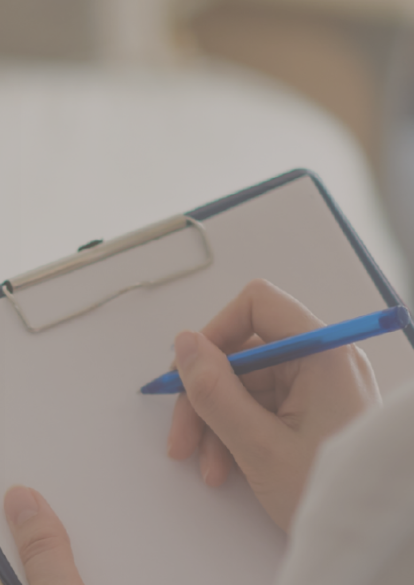
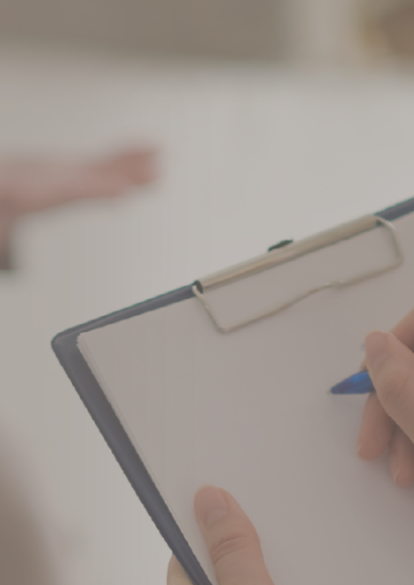
upd: site pronto

diff --git a/src/pages/index.tsx b/src/pages/index.tsx
@@ -1,9 +1,12 @@
 import Image from "next/image";
 import React from "react";
-import TerapiaIMG from '../assets/image/Psicologa.webp';
-import TerapiaMobileIMG from '../assets/image/PsicologaMobile.png'
+import HomeIMG from '../assets/image/Home.png';
+import HomeMobileIMG from '../assets/image/HomeMobile.png'
 import ProblemasCognitivos from '../assets/image/ProblemasCognitivos.png';
 import Consultorio from '../assets/image/Consultório.png';
+import CriancasTerapia from '../assets/image/CriancasTerapia.png';
+import { IoIosArrowForward } from 'react-icons/io';
+import Link from "next/link";
 
 export default function Home() {
   return (
@@ -11,7 +14,7 @@ export default function Home() {
       <section className="relative w-full lg:h-auto">
         <div className="md:block hidden">
           <Image
-            src={TerapiaIMG}
+            src={HomeIMG}
             alt="Imagem Terapia Psicólogo"
             layout="responsive"
             objectFit="cover"
@@ -23,7 +26,7 @@ export default function Home() {
         </div>
         <div className="block md:hidden">
           <Image
-            src={TerapiaMobileIMG}
+            src={HomeMobileIMG}
             alt="Imagem Terapia Psicólogo"
             layout="responsive"
             objectFit="cover"
@@ -31,21 +34,18 @@ export default function Home() {
             className="w-full"
           />
         </div>
-        <div className="absolute top-0 left-0 px-10 md:px-0 w-full h-full flex justify-center items-start mt-14 md:mt-3 md:items-center">
+        <div className="absolute top-0 left-0 px-10 md:px-0 w-full h-full flex justify-center items-start mt-14 md:mt-0 md:items-center">
           {/* Conteúdo centralizado horizontal e verticalmente */}
-          <div className="flex md:px-10 flex-col gap-4 lg:gap-10 max-w-[1140px] w-full mx-auto space-y-4 text-center items-start"> 
-            <div className="max-w-[540px] text-left flex flex-col gap-2 md:gap-5">
-              <h1 className="text-[28px] lg:text-[46px] md:leading-[50px] text-white font-bold">
-                Terapia Cognitivo Comportamental
-              </h1>
-              <p className="text-[14px] lg:text-[18px] font-light text-white">
-                Descubra o poder da Terapia Cognitiva Comportamental (TCC) com a Psicóloga Hellen Pereira, especialista em desbloquear o potencial de sua mente.
-              </p>
-            </div>
-            <div className="flex md:flex-row  gap-3 md:gap-0 flex-col bg-[#EED6D3]/80 items-center py-8 lg:py-6 px-7 lg:px-10 rounded-xl justify-between w-full">
-              <div className="text-[#67595E] text-center md:text-left flex flex-col gap-3 md:gap-4">
-                <h1 className="font-bold text-[24px] leading-7 md:leading-0 lg:text-[32px]">Agende agora sua consulta !</h1>
-                <p className="text-[14px] lg:text-[15px]">A Psicóloga Hellen atende em consultório ou por telemedicina.</p>
+          <div className="flex md:px-10 flex-col gap-4 lg:gap-10 md:max-w-[957px]  w-full mx-auto space-y-4 text-center items-start"> 
+            
+            <div className="flex gap-3 lg:gap-7 md:items-start flex-col bg-[#F2F2F2]/80 items-center py-8 lg:py-12 px-7 lg:px-20 rounded-3xl justify-between w-full">
+              <div className="text-[#67595E] text-center md:text-left flex flex-col gap-3 lg:gap-4">
+                <h1 className="text-[28px] lg:leading-[55px] lg:text-[42px] font-bold">
+                Terapia ABA e <br/> Terapia Cognitiva
+                </h1>
+                <p className="text-[14px] lg:text-[18px] font-regular">
+                  Na região do Campo Limpo, em São Paulo, a Psicóloga Hellen E. Pereira recebe seus pacientes com dedicação e expertise. O atendimento é realizado de segunda a sexta, das 12h às 18h.
+                </p>
               </div>
               <button className="text-[12px] md:text-[16px] px-10 py-2 rounded-[20px] h-fit md:whitespace-nowrap text-white bg-[#169244] hover:bg-[#137938] transition duration-500 font-semibold">
                 AGENDAR CONSULTA
@@ -56,83 +56,47 @@ export default function Home() {
       </section>
       <section className="flex px-10 md:px-0 justify-center w-full">
         <div className="w-[1140px] md:px-10 flex flex-col md:flex-row gap-10 items-center">
+          <Image
+            src={ProblemasCognitivos}
+            alt="Imagem Problemas Terapia Psicólogo"
+            layout="responsive"
+            quality={100}
+            className="block md:hidden"
+          />
           <div className="flex flex-col gap-0 md:gap-3 text-[#67595E]">
-            <span className="text-[22px] md:text-[26px]">Por que escolher a</span>
-            <span className="text-[28px] md:text-[46px] md:leading-[50px] font-bold mb-4 md:mb-0">Terapia Cognitivo Compartamental?</span>
-            <span className="text-[14px] md:text-[16px] mb-2 md:mb-0">A Terapia Cognitiva Comportamental é uma forma eficaz de tratar uma variedade de problemas psicológicos.</span>
+            <span className="text-[28px] md:text-[46px] md:leading-[50px] font-bold mb-4 md:mb-0">Terapia Cognitivo Compartamental</span>
             <span className="text-[14px] md:text-[16px]">Através de estratégias validadas, ajuda a reestruturar pensamentos negativos e comportamentos destrutivos, promovendo bem-estar e saúde mental duradouros.</span>
+            <Link href='/terapia-cognitiva'>
+              <button className="mt-6 text-[12px] md:text-[16px] text-left hover:text-[#000000] transition duration-500 font-semibold flex items-center">              
+                Saiba mais <IoIosArrowForward className="ml-2" />                
+              </button>
+            </Link>
           </div>
           <Image
             src={ProblemasCognitivos}
             alt="Imagem Problemas Terapia Psicólogo"
             layout="responsive"
             quality={100}
+            className="md:block hidden"
+          />  
+        </div>
+      </section>
+      <section className="flex px-10 md:px-0 justify-center w-full">
+        <div className="w-[1140px] md:px-10 flex flex-col md:flex-row gap-10 items-center">
+          <Image
+            src={CriancasTerapia}
+            alt="Imagem Problemas Terapia Psicólogo"
+            layout="responsive"
+            quality={100}
           />
-        </div>
-      </section>
-      <section className="flex justify-center w-full">
-        <div className="w-[1140px] px-10 flex flex-col md:flex-row md:gap-16 gap-8 items-center justify-center">
-          <div className="bg-[#EED6D3] w-full lg:w-[350px] flex flex-col gap-2 justify-center h-full text-[#67595E] text-center px-10 py-8 rounded-xl">
-            <h3 className="font-bold text-md md:text-xl">Evidência e Eficiência</h3>
-            <p className="text-sm">Tratamentos respaldados cientificamente para resultados comprovadamente eficazes.</p>
-          </div>
-          <div className="bg-[#EED6D3] w-full lg:w-[350px] flex flex-col gap-2 justify-center h-full text-[#67595E] text-center px-10 py-8 rounded-xl">
-            <h3 className="font-bold text-md md:text-xl">Transformador e Empoderador</h3>
-            <p className="text-sm">Aprenda técnicas práticas para gerenciar ansiedade, depressão, estresse e outros desafios, capacitando-o a assumir o controle de sua vida.</p>
-          </div>
-          <div className="bg-[#EED6D3] w-full lg:w-[350px] flex flex-col gap-2 justify-center h-full text-[#67595E] text-center px-10 py-8 rounded-xl">
-            <h3 className="font-bold text-md md:text-xl">Personalizado e Direcionado</h3>
-            <p className="text-sm">Sessões moldadas para atender suas necessidades únicas e promover o desenvolvimento pessoal.</p>
-          </div>
-        </div>
-      </section>
-      <section className="text-[#67595E] px-10 md:px-0 flex justify-center w-full">
-        <div className="w-[1140px] md:px-10 flex flex-col items-start md:items-center">
-          <h2 className="text-[24px] md:text-[30px] font-bold text-center mb-8">Problemas Tratados pela TCC</h2>
-          <div className="flex flex-wrap w-full mx-4 md:mx-0 md:justify-center md:items-center gap-3 md:gap-0 mt-0 mb-3 md:my-14">
-            <div className="flex flex-col text-left gap-3 md:gap-14 md:mx-auto">
-              <li className="flex items-center">
-                <span className="inline-block mr-2 w-2 h-2 bg-[#67595E] rounded-full"></span>
-                <p className="text-sm font-bold">Ansiedade</p>
-              </li>
-              <li className="flex items-center">
-                <span className="inline-block mr-2 w-2 h-2 bg-[#67595E] rounded-full"></span>
-                <p className="text-sm font-bold">Estresse</p>
-              </li>
-            </div>
-            <div className="flex flex-col text-left gap-3 md:gap-14 md:mx-auto">
-              <li className="flex items-center">
-                <span className="inline-block mr-2 w-2 h-2 bg-[#67595E] rounded-full"></span>
-                <p className="text-sm font-bold">Problemas de Relacionamento</p>
-              </li>
-              <li className="flex items-center">
-                <span className="inline-block mr-2 w-2 h-2 bg-[#67595E] rounded-full"></span>
-                <p className="text-sm font-bold">Baixa autoestima</p>
-              </li>
-            </div>
-            <div className="flex flex-col text-left gap-3 md:gap-14 md:mx-auto">
-              <li className="flex items-center">
-                <span className="inline-block mr-2 w-2 h-2 bg-[#67595E] rounded-full"></span>
-                <p className="text-sm font-bold">Depressão</p>
-              </li>
-              <li className="flex items-center">
-                <span className="inline-block mr-2 w-2 h-2 bg-[#67595E] rounded-full"></span>
-                <p className="text-sm font-bold">Procrastinação</p>
-              </li>
-            </div>
-            <div className="flex flex-col text-left gap-3 md:gap-14 md:mx-auto">
-              <li className="flex items-center">
-                <span className="inline-block mr-2 w-2 h-2 bg-[#67595E] rounded-full"></span>
-                <p className="text-sm font-bold">Transtorno de Humor</p>
-              </li>
-              <li className="flex items-center">
-                <span className="inline-block mr-2 w-2 h-2 bg-[#67595E] rounded-full"></span>
-                <p className="text-sm font-bold">Fobias Específicas</p>
-              </li>
-            </div>
-          </div>
-          <div className="text-center mx-4 md:mx-0">
-            <p className="text-sm font-bold">E muitas mais...</p>
+          <div className="flex flex-col gap-0 md:gap-2 text-[#67595E]">
+            <span className="text-[28px] md:text-[46px] font-bold mb-4 md:mb-0">Terapia ABA</span>
+            <span className="text-[14px] md:text-[16px]">Com abordagens baseadas em evidências, oferecemos um caminho personalizado para cada paciente, visando a melhoria contínua e uma vida mais plena e feliz.</span>
+            <Link href='/aba'>
+              <button className="mt-6 text-[12px] md:text-[16px] text-left hover:text-[#000000] transition duration-500 font-semibold flex items-center">              
+                Saiba mais <IoIosArrowForward className="ml-2" />                
+              </button>
+            </Link>
           </div>
         </div>
       </section>

diff --git a/src/pages/fale-conosco/index.tsx b/src/pages/fale-conosco/index.tsx
@@ -1,0 +1,42 @@
+import Image from "next/image";
+import React from "react";
+import ABAIMG from '../../assets/image/ABA.webp';
+import ABAmobileIMG from '../../assets/image/ABAmobile.png';
+import CriancasTerapia from '../../assets/image/CriancasTerapia.png';
+import Consultorio from '../../assets/image/Consultório.png';
+import Link from "next/link";
+
+export default function ABA() {
+  return (
+    <main className="flex flex-col gap-16 md:gap-40 bg-[#F2F2F2]">
+      <section className="flex px-10 mt-5 md:mt-10 md:px-0 justify-center w-full">
+        <div className="w-[1140px] md:px-10 flex md:flex-row flex-col gap-10 items-center">
+          <div className="flex flex-col gap-3 text-[#67595E]">
+            <span className="text-[24px] md:text-[36px] font-bold">Agende Uma Consulta em Nosso Espaço</span>
+            <span>Na região do Campo Limpo, em São Paulo, a Psicóloga Hellen E. Pereira recebe seus pacientes com dedicação e expertise. O atendimento é realizado de segunda a sexta, das 12h às 18h.</span>
+            <Link href="https://api.whatsapp.com/send/?phone=%2B5511937698342&text=Ol%C3%A1!+Gostaria+de+marcar+uma+consulta+de+ABA+com+a+Psic%C3%B3loga+Hellen.&utm_source=Chat+site&utm_medium=Whatsapp&utm_campaign=Site+hellen+v1" target="_blank" className="px-10 py-2 mt-4 w-full md:w-fit md:mx-0 mx-auto rounded-[20px] h-fit text-white bg-[#169244] hover:bg-[#137938] transition duration-500 font-semibold">
+              AGENDAR CONSULTA
+            </Link>
+          </div>
+          <Image
+            src={Consultorio}
+            alt="Consultório Psicóloga Hellen Pereira"
+            layout="responsive"
+            height={519}
+            width={561}
+            quality={100}
+          />
+        </div>
+      </section>
+      <section className="flex justify-center px-10 w-full bg-[#67595E] py-10">
+        <div className="w-[1140px] md:px-10 flex flex-col gap-6 justify-center items-center">
+          <h2 className="text-[22px] md:text-[30px] text-white font-bold text-center">Entramos em contato para marcar sua consulta</h2>
+          <Link href="https://api.whatsapp.com/send/?phone=%2B5511937698342&text=Ol%C3%A1!+Gostaria+de+marcar+uma+consulta+de+ABA+com+a+Psic%C3%B3loga+Hellen.&utm_source=Chat+site&utm_medium=Whatsapp&utm_campaign=Site+hellen+v1" target="_blank" className="px-10 py-2 w-fit rounded-[20px] h-fit text-[#67595E] bg-white hover:bg-[#f7eef1] transition duration-500 font-semibold">
+            RECEBER LIGAÇÃO
+          </Link>
+        </div>
+      </section>
+
+    </main>
+  );
+}

diff --git a/src/pages/_app.tsx b/src/pages/_app.tsx
@@ -1,10 +1,32 @@
 import "../styles/globals.css";
 import type { AppProps } from "next/app";
 import Layout from "./layout"; // Importe seu componente Layout personalizado
+import Head from "next/head";
 
 function MyApp({ Component, pageProps }: AppProps) {
   return (
     <Layout>
+      <Head>
+        <link rel="icon" href="/favicon.svg" />
+        <title>Psicóloga Hellen Pereira | Especialista em ABA e TCC</title>
+        <meta
+          name="description"
+          content="Psicóloga Hellen Pereira, especializada em Análise do Comportamento Aplicada (ABA) e Terapia Cognitivo-Comportamental (TCC). Atendimento personalizado para crianças e adultos em São Paulo."
+        ></meta>
+        <meta
+          name="keywords"
+          content="Psicologia, ABA, TCC, Terapia, Psicóloga Hellen Pereira, Terapia Comportamental, São Paulo"
+        ></meta>
+        <meta property="og:type" content="website" />
+        <meta property="og:title" content="Psicóloga Hellen Pereira | Especialista em ABA e TCC" />
+        <meta
+          property="og:description"
+          content="Descubra como a Terapia ABA e TCC com a Psicóloga Hellen Pereira pode ajudar no desenvolvimento pessoal e melhorar a qualidade de vida."
+        />
+        <meta property="og:url" content="URL_DO_SITE_AQUI" />
+        <meta property="og:image" content="URL_DA_IMAGEM_DE_DESTAQUE_AQUI" />
+        <meta property="og:image:alt" content="Consultório da Psicóloga Hellen Pereira" />
+      </Head>
       <Component {...pageProps} />
     </Layout>
   );

diff --git a/src/pages/aba/index.tsx b/src/pages/aba/index.tsx
@@ -43,8 +43,8 @@ export default function ABA() {
              Explorando o potencial da Análise do Comportamento Aplicada (ABA) com a Psicóloga Hellen Pereira, especializada em criar caminhos transformadores para crianças.
             </p>
             </div>
-            <div className="flex md:flex-row  gap-3 md:gap-0 flex-col bg-[#EED6D3]/80 items-center py-8 lg:py-6 px-7 lg:px-10 rounded-xl justify-between w-full">
-              <div className="text-[#67595E] text-center md:text-left flex flex-col gap-3 md:gap-4">
+            <div className="flex md:flex-row  gap-3 md:gap-0 flex-col bg-[#E8B4B8]/75 items-center py-8 lg:py-6 px-7 lg:px-10 rounded-xl justify-between w-full">
+              <div className="text-[#574b4f] text-center md:text-left flex flex-col gap-3">
                 <h1 className="font-bold text-[24px] leading-7 md:leading-0 lg:text-[32px]">Agende agora a sua consulta !</h1>
                 <p className="text-[14px] lg:text-[15px]">Atendemos com foco em autismo e desafios de comportamento através de sessões personalizadas.</p>
               </div>

diff --git a/src/pages/terapia-cognitiva/index.tsx b/src/pages/terapia-cognitiva/index.tsx
@@ -39,7 +39,7 @@ export default function TerapiaCognitiva() {
               <h1 className="text-[28px] lg:text-[46px] md:leading-[50px] text-white font-bold">
                 Terapia Cognitivo Comportamental
               </h1>
-              <p className="text-[14px] lg:text-[18px] font-light text-white">
+              <p className="text-[14px] lg:text-[18px] font-regular md:font-light text-white">
                 Descubra o poder da Terapia Cognitiva Comportamental (TCC) com a Psicóloga Hellen Pereira, especialista em desbloquear o potencial de sua mente.
               </p>
             </div>
